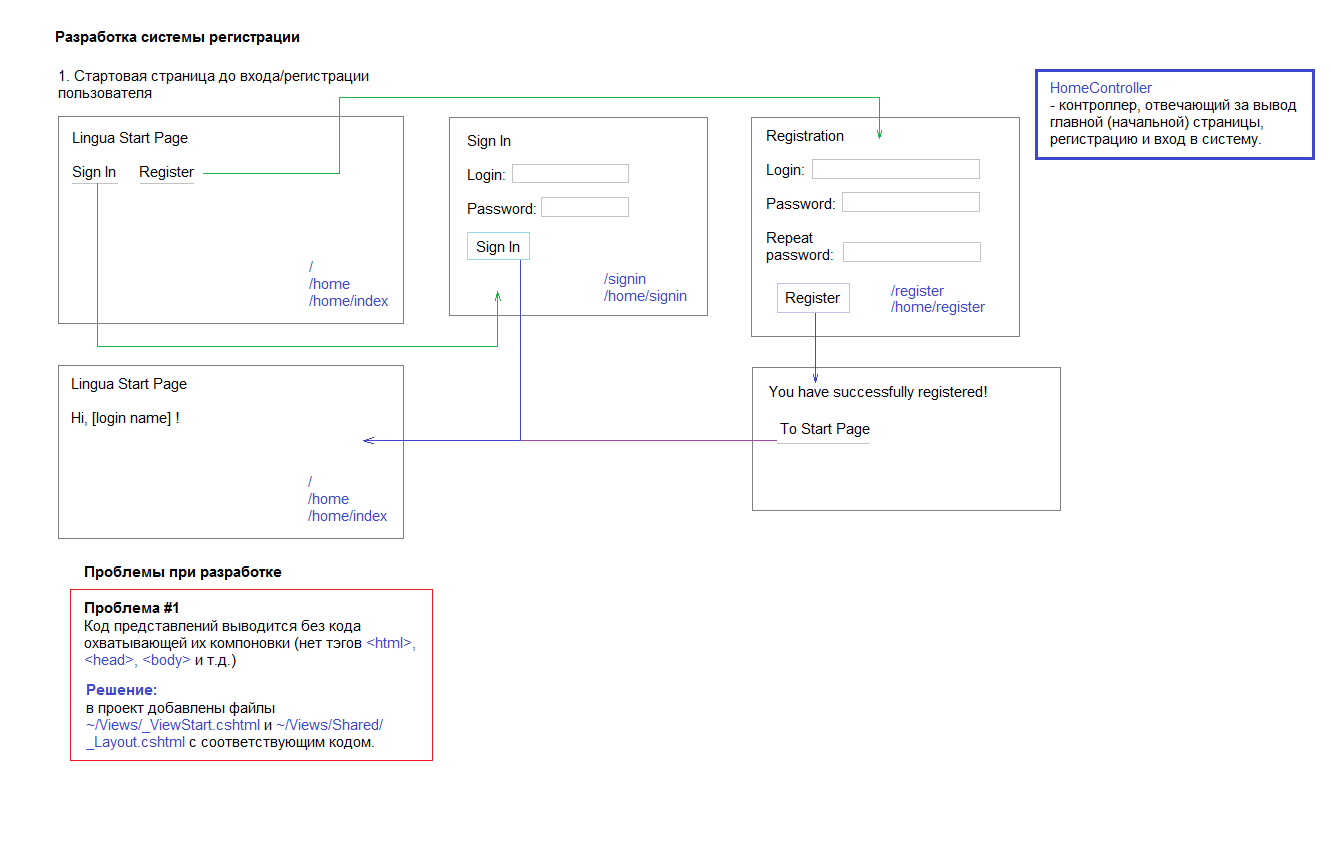
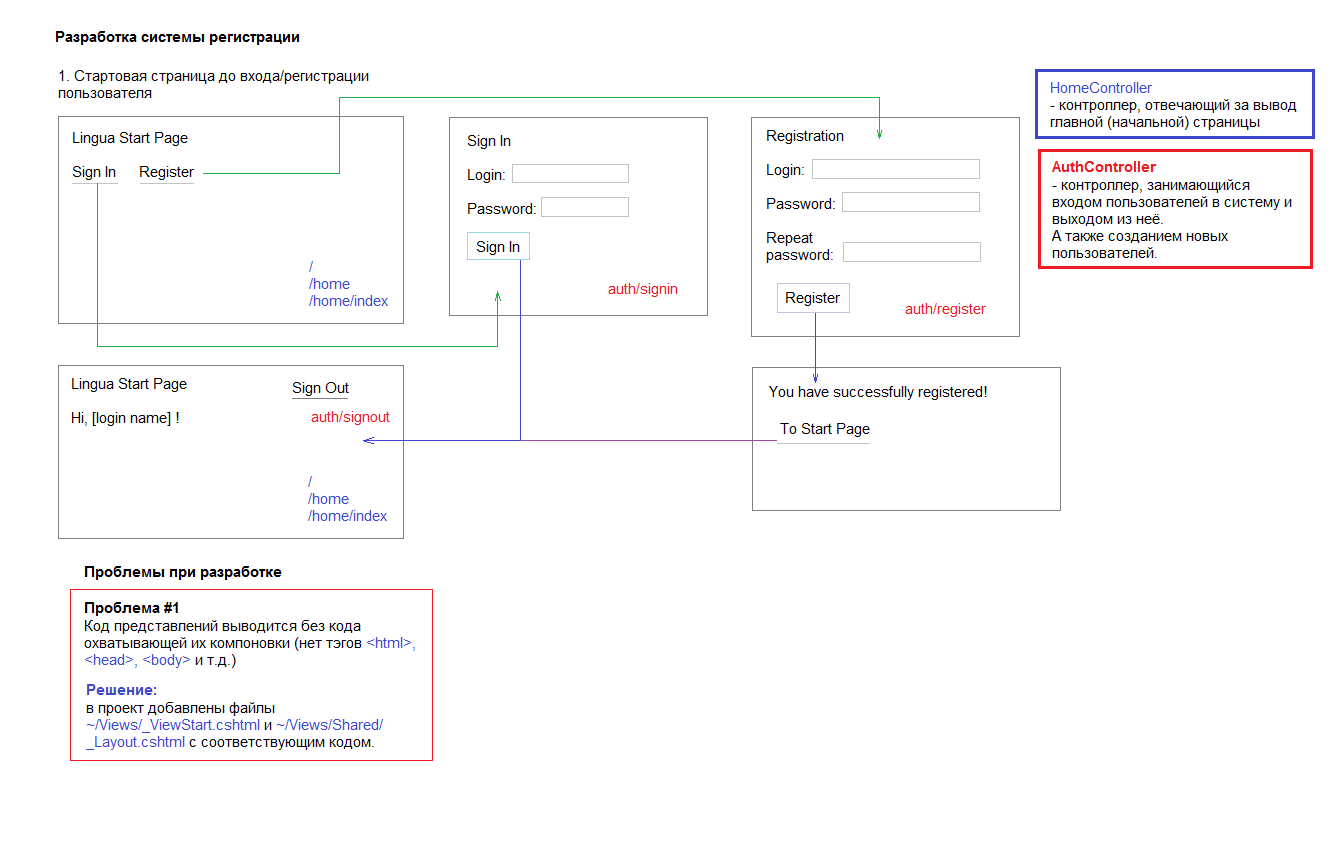
Create AuthController and restructure code

diff --git a/BigLinguaProject.UI/Controllers/AuthController.cs b/BigLinguaProject.UI/Controllers/AuthController.cs
@@ -1,0 +1,15 @@
+using System.Web.Mvc;
+
+namespace BigLinguaProject.UI.Controllers {
+    public class AuthController : Controller {        
+        public ActionResult Register() {
+            return View();
+        }
+        public ActionResult SignIn() {
+            return View();
+        }
+        public ActionResult SignOut() {
+            return null;
+        }
+    }
+}

diff --git a/BigLinguaProject.UI/Controllers/HomeController.cs b/BigLinguaProject.UI/Controllers/HomeController.cs
@@ -5,11 +5,5 @@ namespace BigLinguaProject.UI.Controllers {
         public ActionResult Index() {
             return View();
         }
-        public ActionResult SignIn() {
-            return View();
-        }
-        public ActionResult Register() {
-            return View();
-        }
     }
 }
